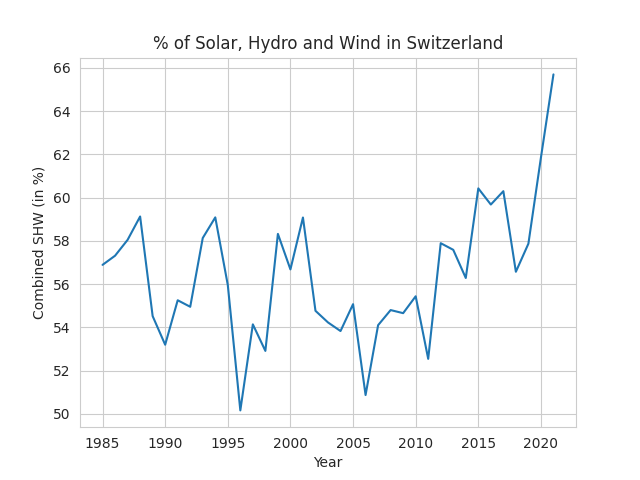
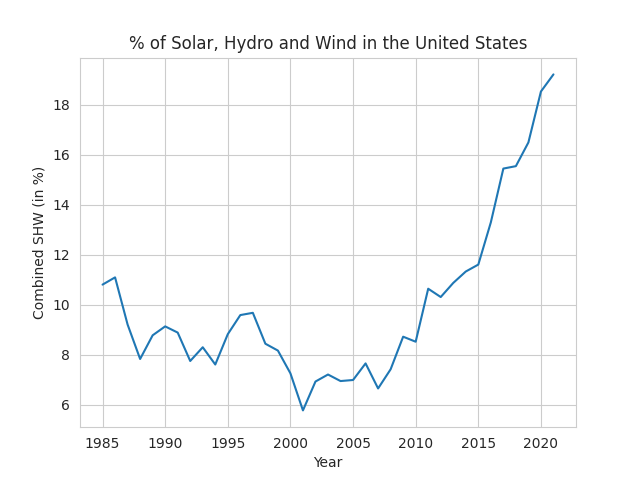
small updates

diff --git a/dags/renewable_analysis_dag.py b/dags/renewable_analysis_dag.py
@@ -26,10 +26,10 @@ import matplotlib.pyplot as plt
 # Setting variables #
 # ----------------- #
 
-COUNTRY = "Switzerland"
+COUNTRY = "United States"
 DATABRICKS_LOGIN_EMAIL = "<your email>"
-S3_BUCKET = "<your S3 bucket>"
-AWS_REGION = "<your AWS region>"
+S3_BUCKET = "<your bucket>"
+AWS_REGION = "<your region>"
 
 DATABRICKS_NOTEBOOK_NAME_1 = "join_data"
 DATABRICKS_NOTEBOOK_NAME_2 = "transform_data"
@@ -91,7 +91,7 @@ def select_countries(in_table, country):
 def create_graph(df: pd.DataFrame):
     sns.set_style("whitegrid")
     sns.lineplot(x="Year", y="SHW%", data=df)
-    plt.title(f"% of Solar, Hydro and Wind in {COUNTRY}")
+    plt.title(f"% of Solar, Hydro and Wind in the {COUNTRY}")
     plt.xlabel("Year")
     plt.ylabel("Combined SHW (in %)")
     plt.savefig("include/shw.png")

diff --git a/databricks_notebook_code/transform_data_notebook_code.py b/databricks_notebook_code/transform_data_notebook_code.py
@@ -11,7 +11,7 @@ from pyspark.sql.types import StructType, StructField, StringType
 # set variables
 ACCESS_KEY = "<your AWS Access Key ID>"  # dbutils.secrets.get(scope="my-scope", key="my-aws-key-key")
 SECRET_KEY = "<your AWS Secret Access Key>"  # dbutils.secrets.get(scope="my-scope", key="my-aws-secret-key")
-BUCKET_NAME = "databricks-tutorial-bucket"
+BUCKET_NAME = "<your bucket>"
 S3_FOLDER_JOINED_DATA = "joined_data"
 S3_FOLDER_TRANSFORMED_DATA = "transformed_data"
 

diff --git a/databricks_notebook_code/join_data_notebook_code.py b/databricks_notebook_code/join_data_notebook_code.py
@@ -16,7 +16,7 @@ from pyspark.sql.types import (
 # set variables
 ACCESS_KEY = "<your AWS Access Key ID>"  # dbutils.secrets.get(scope="my-scope", key="my-aws-key-key")
 SECRET_KEY = "<your AWS Secret Access Key>"  # dbutils.secrets.get(scope="my-scope", key="my-aws-secret-key")
-BUCKET_NAME = "databricks-tutorial-bucket"
+BUCKET_NAME = "<your bucket>"
 S3_FOLDER_COUNTRY_SUBSET = "country_subset"
 S3_FOLDER_JOINED_DATA = "joined_data"
 
